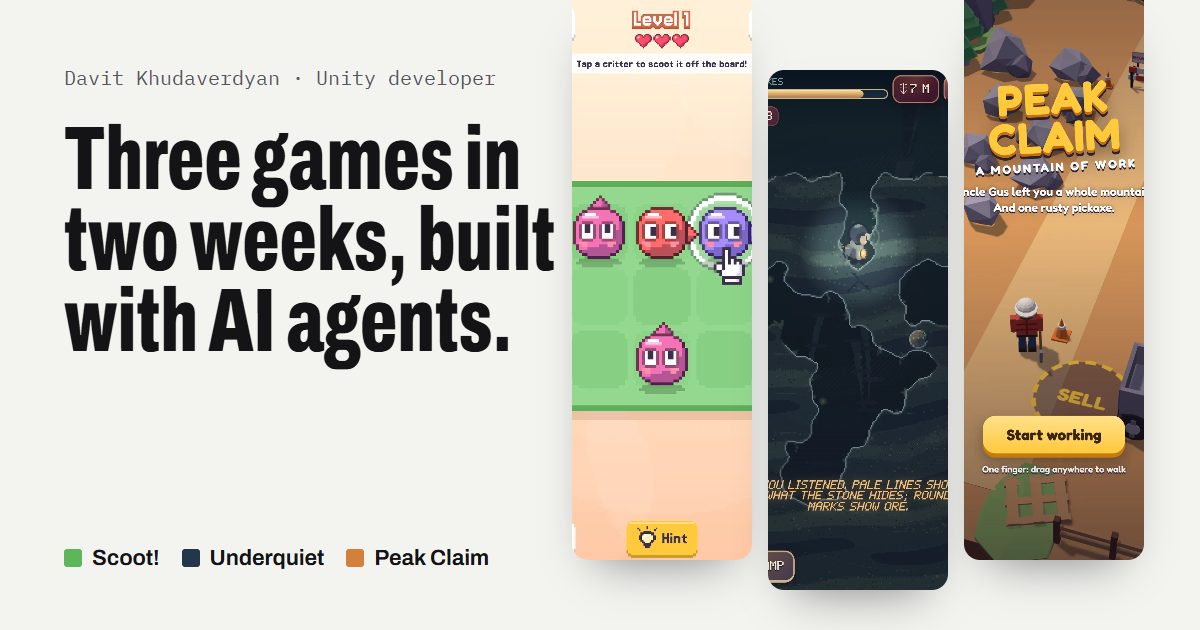
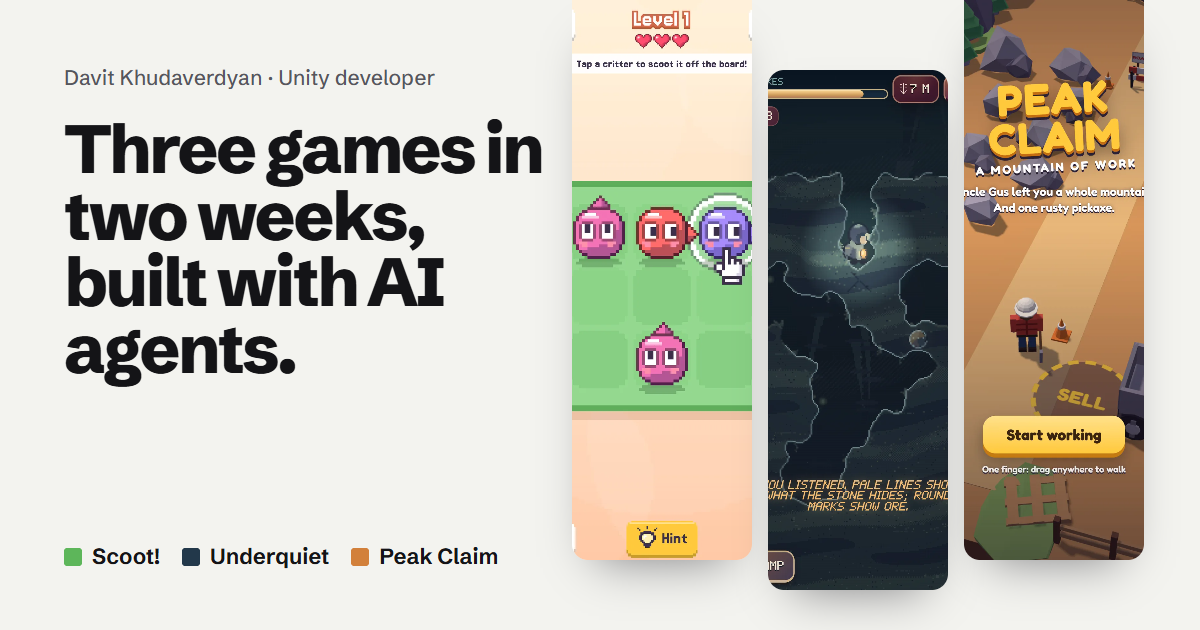
Switch to Schibsted Grotesk and drop the mono labels
Condensed all-caps headings and monospace labels read as templated.
Use one grotesk in sentence case instead, and re-render the share image.

Changed region(s): [[0.0308, 0.181, 0.4625, 0.6333], [0.0617, 0.0905, 0.4008, 0.1508], [0.0617, 0.8746, 0.4317, 0.9048]]

diff --git a/css/site.css b/css/site.css
@@ -20,7 +20,7 @@ body {
   margin: 0;
   background: var(--paper);
   color: var(--ink);
-  font-family: "Archivo", system-ui, -apple-system, "Segoe UI", sans-serif;
+  font-family: "Schibsted Grotesk", system-ui, -apple-system, "Segoe UI", sans-serif;
   font-size: 17px;
   line-height: 1.55;
   -webkit-font-smoothing: antialiased;
@@ -30,13 +30,13 @@ a { color: inherit; }
 a:focus-visible { outline: 3px solid currentColor; outline-offset: 4px; border-radius: 2px; }
 
 .wrap { max-width: 1240px; margin: 0 auto; padding: 0 clamp(16px, 4vw, 48px); }
-.mono { font-family: "IBM Plex Mono", ui-monospace, "Cascadia Mono", monospace; font-size: 13px; letter-spacing: 0.01em; }
+.small { font-size: 14px; font-weight: 500; line-height: 1.4; }
 .sr { position: absolute; width: 1px; height: 1px; overflow: hidden; clip: rect(0 0 0 0); white-space: nowrap; }
 
 /* Top bar */
 .top { display: flex; flex-wrap: wrap; justify-content: space-between; align-items: baseline; gap: 8px 24px; padding-top: 28px; padding-bottom: 28px; }
-.top .name { font-weight: 650; font-size: 17px; text-decoration: none; }
-.top nav { display: flex; gap: 24px; font-size: 15px; }
+.top .name { font-weight: 700; font-size: 17px; letter-spacing: -0.01em; text-decoration: none; }
+.top nav { display: flex; gap: 24px; font-size: 15px; font-weight: 500; }
 .top nav a { text-decoration: none; }
 .top a:hover { text-decoration: underline; text-underline-offset: 4px; }
 
@@ -44,26 +44,26 @@ a:focus-visible { outline: 3px solid currentColor; outline-offset: 4px; border-r
 .intro { padding-top: clamp(32px, 7vw, 96px); padding-bottom: clamp(56px, 7vw, 104px); }
 .role { color: var(--muted); margin: 0 0 22px; }
 .intro-grid { display: grid; grid-template-columns: repeat(12, minmax(0, 1fr)); column-gap: 24px; row-gap: 28px; align-items: end; }
-h1 { grid-column: 1 / span 8; margin: 0; font-stretch: 62%; font-weight: 800; font-size: clamp(54px, 8.8vw, 132px); line-height: 0.9; letter-spacing: -0.005em; max-width: 11.5ch; }
+h1 { grid-column: 1 / span 8; margin: 0; font-weight: 800; font-size: clamp(44px, 6.6vw, 98px); line-height: 0.98; letter-spacing: -0.04em; max-width: 12.5ch; }
 .lede { grid-column: 9 / span 4; margin: 0; font-size: clamp(18px, 1.5vw, 20px); line-height: 1.5; color: var(--muted); }
 
 /* Timesheet */
 .log { margin: clamp(56px, 7vw, 104px) 0 0; padding-top: 18px; border-top: 1.5px solid var(--ink); }
 .log-head { display: flex; flex-wrap: wrap; justify-content: space-between; align-items: baseline; gap: 6px 16px; margin-bottom: 20px; }
-.log-head h2 { margin: 0; font-size: 16px; font-weight: 650; }
+.log-head h2 { margin: 0; font-size: 17px; font-weight: 700; letter-spacing: -0.01em; }
 .log-head p { margin: 0; color: var(--muted); }
 .log-grid { display: grid; grid-template-columns: minmax(96px, 150px) repeat(15, minmax(0, 1fr)) minmax(170px, 260px); column-gap: 6px; row-gap: 10px; align-items: center; }
-.d { text-align: center; color: var(--muted); font-size: 12px; line-height: 1.25; }
-.d b { display: block; font-weight: 500; color: var(--ink); }
+.d { text-align: center; color: var(--muted); font-size: 12px; line-height: 1.25; font-variant-numeric: tabular-nums; }
+.d b { display: block; font-weight: 600; color: var(--ink); }
 .c { aspect-ratio: 1; border-radius: 3px; box-shadow: inset 0 0 0 1px var(--line); }
 .c.on { box-shadow: none; background: var(--cell); }
 .r-scoot { --cell: #5db65a; }
 .r-uq { --cell: #22384a; }
 .r-peak { --cell: #d2803a; }
-.row-name { font-weight: 650; font-size: 16px; text-decoration: none; }
+.row-name { font-weight: 700; font-size: 16px; letter-spacing: -0.01em; text-decoration: none; }
 .row-name:hover { text-decoration: underline; text-underline-offset: 4px; }
 .tot { padding-left: 18px; color: var(--muted); font-size: 15px; line-height: 1.3; }
-.tot b { font-stretch: 70%; font-weight: 800; font-size: 22px; color: var(--ink); margin-right: 6px; }
+.tot b { font-weight: 800; font-size: 20px; letter-spacing: -0.03em; color: var(--ink); margin-right: 6px; }
 .th-tot { padding-left: 18px; color: var(--muted); }
 
 /* Games */
@@ -76,11 +76,11 @@ h1 { grid-column: 1 / span 8; margin: 0; font-stretch: 62%; font-weight: 800; fo
 .game-media { grid-column: 7 / span 6; }
 .game--flip .game-text { grid-column: 8 / span 5; order: 2; }
 .game--flip .game-media { grid-column: 1 / span 6; order: 1; }
-.game-meta { display: flex; gap: 14px; margin: 0; color: var(--sub); }
-.game-title { margin: 14px 0 24px; font-stretch: 62%; font-weight: 850; font-size: clamp(60px, 7vw, 104px); line-height: 0.86; letter-spacing: -0.005em; text-transform: uppercase; }
+.game-meta { display: flex; gap: 14px; margin: 0; color: var(--sub); font-variant-numeric: tabular-nums; }
+.game-title { margin: 12px 0 22px; font-weight: 800; font-size: clamp(48px, 5.8vw, 86px); line-height: 0.95; letter-spacing: -0.045em; }
 .pitch { margin: 0; max-width: 34ch; font-size: clamp(18px, 1.5vw, 20px); line-height: 1.5; }
 .actions { display: flex; flex-wrap: wrap; align-items: center; gap: 12px 18px; margin-top: 32px; }
-.play { display: inline-flex; align-items: center; gap: 12px; min-height: 52px; padding: 0 24px 0 20px; border-radius: 6px; background: var(--ink); color: var(--paper); font-weight: 650; font-size: 17px; text-decoration: none; transition: transform 0.15s ease, background-color 0.15s ease; }
+.play { display: inline-flex; align-items: center; gap: 12px; min-height: 52px; padding: 0 24px 0 20px; border-radius: 6px; background: var(--ink); color: var(--paper); font-weight: 700; font-size: 17px; text-decoration: none; transition: transform 0.15s ease, background-color 0.15s ease; }
 .play svg { width: 14px; height: 14px; flex: none; }
 .play:hover { background: #000; transform: translateY(-1px); }
 .play:active { transform: translateY(0); }
@@ -90,9 +90,9 @@ h1 { grid-column: 1 / span 8; margin: 0; font-stretch: 62%; font-weight: 800; fo
 .hint { color: var(--sub); }
 .spec { margin: 40px 0 0; border-top: 1px solid var(--rule); }
 .spec div { display: grid; grid-template-columns: 92px minmax(0, 1fr); gap: 16px; padding: 14px 0; border-bottom: 1px solid var(--rule); }
-.spec dt { padding-top: 3px; color: var(--sub); text-transform: uppercase; }
+.spec dt { padding-top: 2px; color: var(--sub); }
 .spec dd { margin: 0; font-size: 15.5px; line-height: 1.5; }
-.spec .big { display: block; margin-bottom: 6px; font-stretch: 68%; font-weight: 800; font-size: 40px; line-height: 1; }
+.spec .big { display: block; margin-bottom: 6px; font-weight: 800; font-size: 34px; line-height: 1; letter-spacing: -0.035em; }
 
 .shot { width: 100%; border-radius: 18px; box-shadow: 0 30px 60px -30px rgba(10, 10, 20, 0.45), 0 2px 6px rgba(10, 10, 20, 0.08); }
 .game--uq .shot { box-shadow: 0 30px 60px -30px rgba(0, 0, 0, 0.75), 0 0 0 1px rgba(255, 255, 255, 0.07); }
@@ -104,15 +104,15 @@ h1 { grid-column: 1 / span 8; margin: 0; font-stretch: 62%; font-weight: 800; fo
 /* About */
 .about { padding-top: clamp(72px, 9vw, 136px); padding-bottom: clamp(72px, 9vw, 136px); }
 .about-grid { display: grid; grid-template-columns: repeat(12, minmax(0, 1fr)); column-gap: 24px; row-gap: 28px; }
-.about h2 { grid-column: 1 / span 4; margin: 0; font-stretch: 62%; font-weight: 800; font-size: clamp(42px, 5vw, 72px); line-height: 0.92; text-transform: uppercase; }
+.about h2 { grid-column: 1 / span 4; margin: 0; font-weight: 800; font-size: clamp(36px, 4vw, 56px); line-height: 1; letter-spacing: -0.04em; }
 .about-body { grid-column: 6 / span 7; font-size: clamp(18px, 1.45vw, 20px); line-height: 1.55; }
 .about-body p { margin: 0 0 18px; max-width: 52ch; }
 .about-body a { text-underline-offset: 4px; }
 
 /* Footer */
 .foot { display: flex; flex-wrap: wrap; justify-content: space-between; align-items: end; gap: 28px; padding-top: 28px; padding-bottom: 48px; border-top: 1.5px solid var(--ink); }
-.contact { display: flex; flex-wrap: wrap; gap: 6px 36px; }
-.contact a { font-stretch: 62%; font-weight: 800; font-size: clamp(40px, 5.4vw, 72px); line-height: 1; text-transform: uppercase; text-decoration: none; }
+.contact { display: flex; flex-wrap: wrap; gap: 6px 40px; }
+.contact a { font-weight: 800; font-size: clamp(36px, 4.6vw, 64px); line-height: 1.05; letter-spacing: -0.045em; text-decoration: none; }
 .contact a:hover { text-decoration: underline; text-decoration-thickness: 3px; text-underline-offset: 6px; }
 .foot-note { margin: 0; color: var(--muted); max-width: 40ch; }
 
@@ -124,14 +124,14 @@ h1 { grid-column: 1 / span 8; margin: 0; font-stretch: 62%; font-weight: 800; fo
 }
 
 @media (max-width: 720px) {
-  .log-grid { grid-template-columns: 64px repeat(15, minmax(0, 1fr)); column-gap: 3px; row-gap: 8px; }
+  .log-grid { grid-template-columns: 70px repeat(15, minmax(0, 1fr)); column-gap: 3px; row-gap: 8px; }
   .th-tot { display: none; }
   .tot { grid-column: 2 / -1; padding: 0 0 8px; margin-top: -2px; font-size: 13px; }
-  .tot b { font-size: 17px; }
+  .tot b { font-size: 16px; }
   .d { font-size: 10px; }
-  .row-name { font-size: 13px; font-stretch: 75%; line-height: 1.15; }
+  .row-name { font-size: 12px; line-height: 1.15; letter-spacing: -0.02em; }
   .spec div { grid-template-columns: 1fr; gap: 4px; }
-  .spec .big { font-size: 34px; }
+  .spec .big { font-size: 30px; }
 }
 
 @media (prefers-reduced-motion: reduce) {

diff --git a/index.html b/index.html
@@ -18,7 +18,7 @@
 <link rel="icon" href="img/favicon.svg" type="image/svg+xml">
 <link rel="preconnect" href="https://fonts.googleapis.com">
 <link rel="preconnect" href="https://fonts.gstatic.com" crossorigin>
-<link rel="stylesheet" href="https://fonts.googleapis.com/css2?family=Archivo:wdth,wght@62..125,400..900&amp;family=IBM+Plex+Mono:wght@400;500&amp;display=swap">
+<link rel="stylesheet" href="https://fonts.googleapis.com/css2?family=Schibsted+Grotesk:wght@400..900&amp;display=swap">
 <link rel="stylesheet" href="css/site.css">
 </head>
 <body>
@@ -34,7 +34,7 @@
 
 <main>
 <section class="wrap intro">
-<p class="role mono">AI-native Unity developer · Yerevan, Armenia · open to remote</p>
+<p class="role small">AI-native Unity developer · Yerevan, Armenia · open to remote</p>
 <div class="intro-grid">
 <h1>Three games in two weeks, built with AI agents.</h1>
 <p class="lede">I've shipped mobile games in Unity for five years, and for the last one I've written most of my code through AI agents. These three were made that way. Each one runs right here in your browser.</p>
@@ -43,12 +43,12 @@
 <figure class="log" id="games" aria-labelledby="log-title">
 <div class="log-head">
 <h2 id="log-title">November 2026</h2>
-<p class="mono">Days with commits, from each game's git history</p>
+<p class="small">Days with commits, from each game's git history</p>
 </div>
 <div class="log-grid">
 <span></span>
 <span class="d" aria-hidden="true">S<b>7</b></span><span class="d" aria-hidden="true">S<b>8</b></span><span class="d" aria-hidden="true">M<b>9</b></span><span class="d" aria-hidden="true">T<b>10</b></span><span class="d" aria-hidden="true">W<b>11</b></span><span class="d" aria-hidden="true">T<b>12</b></span><span class="d" aria-hidden="true">F<b>13</b></span><span class="d" aria-hidden="true">S<b>14</b></span><span class="d" aria-hidden="true">S<b>15</b></span><span class="d" aria-hidden="true">M<b>16</b></span><span class="d" aria-hidden="true">T<b>17</b></span><span class="d" aria-hidden="true">W<b>18</b></span><span class="d" aria-hidden="true">T<b>19</b></span><span class="d" aria-hidden="true">F<b>20</b></span><span class="d" aria-hidden="true">S<b>21</b></span>
-<span class="th-tot mono">Time taken</span>
+<span class="th-tot small">Time taken</span>
 
 <a class="row-name r-scoot" href="#scoot">Scoot!<span class="sr">: commits on 7, 8, 11, 14, 15 and 16 November</span></a>
 <span class="c on r-scoot"></span><span class="c on r-scoot"></span><span class="c"></span><span class="c"></span><span class="c on r-scoot"></span><span class="c"></span><span class="c"></span><span class="c on r-scoot"></span><span class="c on r-scoot"></span><span class="c on r-scoot"></span><span class="c"></span><span class="c"></span><span class="c"></span><span class="c"></span><span class="c"></span>
@@ -68,17 +68,17 @@
 <section class="game game--scoot" id="scoot" aria-labelledby="scoot-title">
 <div class="wrap game-grid">
 <div class="game-text">
-<p class="game-meta mono"><span>01</span><span>7–16 Nov 2026</span></p>
+<p class="game-meta small"><span>01</span><span>7–16 Nov 2026</span></p>
 <h2 class="game-title" id="scoot-title">Scoot!</h2>
 <p class="pitch">Tap a critter and it scoots off the board the way it faces. Bump into another and you lose a heart. Sleepy critters, leaf piles and a daily puzzle join as you go.</p>
 <div class="actions">
 <a class="play" href="games/scoot/"><svg viewBox="0 0 14 14" aria-hidden="true"><path d="M2 1.5v11l10-5.5z" fill="currentColor"/></svg>Play Scoot!</a>
-<span class="hint mono">Phone or desktop</span>
+<span class="hint small">Phone or desktop</span>
 </div>
 <dl class="spec">
-<div><dt class="mono">Time</dt><dd><span class="big">1 hour</span>to the first playable, then 6 days of polish to a Poki-ready build</dd></div>
-<div><dt class="mono">Tech</dt><dd>PixiJS v8, TypeScript and Vite. A seeded level generator with a solver, so every level can be cleared.</dd></div>
-<div><dt class="mono">AI</dt><dd>Claude Code wrote the game, the solver and its tests, scripted the pixel art and wired the Poki SDK. The music loop is AI-generated (MiniMax-Music3).</dd></div>
+<div><dt class="small">Time</dt><dd><span class="big">1 hour</span>to the first playable, then 6 days of polish to a Poki-ready build</dd></div>
+<div><dt class="small">Tech</dt><dd>PixiJS v8, TypeScript and Vite. A seeded level generator with a solver, so every level can be cleared.</dd></div>
+<div><dt class="small">AI</dt><dd>Claude Code wrote the game, the solver and its tests, scripted the pixel art and wired the Poki SDK. The music loop is AI-generated (MiniMax-Music3).</dd></div>
 </dl>
 </div>
 <div class="game-media">
@@ -93,17 +93,17 @@
 <section class="game game--uq game--flip" id="underquiet" aria-labelledby="uq-title">
 <div class="wrap game-grid">
 <div class="game-text">
-<p class="game-meta mono"><span>02</span><span>17–19 Nov 2026</span></p>
+<p class="game-meta small"><span>02</span><span>17–19 Nov 2026</span></p>
 <h2 class="game-title" id="uq-title">Underquiet</h2>
 <p class="pitch">A calm mining game about listening. Dig down with one thumb, then lift it: the rock answers, and pale contour lines show the ore hidden in the dark.</p>
 <div class="actions">
 <a class="play" href="games/underquiet/"><svg viewBox="0 0 14 14" aria-hidden="true"><path d="M2 1.5v11l10-5.5z" fill="currentColor"/></svg>Play Underquiet</a>
-<span class="hint mono">Made for phones · headphones on</span>
+<span class="hint small">Made for phones · headphones on</span>
 </div>
 <dl class="spec">
-<div><dt class="mono">Time</dt><dd><span class="big">2 days</span>research, a design doc, four concepts and the prototype</dd></div>
-<div><dt class="mono">Tech</dt><dd>Plain JavaScript and Canvas 2D in a single HTML file. Every pixel of art and every sound is made in code.</dd></div>
-<div><dt class="mono">AI</dt><dd>Claude Code and Codex CLI worked in parallel from shared briefs. Codex drafted, Claude Code checked each result and built the playable slice.</dd></div>
+<div><dt class="small">Time</dt><dd><span class="big">2 days</span>research, a design doc, four concepts and the prototype</dd></div>
+<div><dt class="small">Tech</dt><dd>Plain JavaScript and Canvas 2D in a single HTML file. Every pixel of art and every sound is made in code.</dd></div>
+<div><dt class="small">AI</dt><dd>Claude Code and Codex CLI worked in parallel from shared briefs. Codex drafted, Claude Code checked each result and built the playable slice.</dd></div>
 </dl>
 </div>
 <div class="game-media">
@@ -118,17 +118,17 @@
 <section class="game game--peak" id="peak-claim" aria-labelledby="peak-title">
 <div class="wrap game-grid">
 <div class="game-text">
-<p class="game-meta mono"><span>03</span><span>20 Nov 2026 · game jam</span></p>
+<p class="game-meta small"><span>03</span><span>20 Nov 2026 · game jam</span></p>
 <h2 class="game-title" id="peak-title">Peak Claim</h2>
 <p class="pitch">Your uncle left you a mountain and one rusty pickaxe. Mine it, haul the rocks to the truck, hire a crew, drive the machines and build Peak Lodge.</p>
 <div class="actions">
 <a class="play" href="games/peak-claim/"><svg viewBox="0 0 14 14" aria-hidden="true"><path d="M2 1.5v11l10-5.5z" fill="currentColor"/></svg>Play Peak Claim</a>
-<span class="hint mono">One finger, or WASD</span>
+<span class="hint small">One finger, or WASD</span>
 </div>
 <dl class="spec">
-<div><dt class="mono">Time</dt><dd><span class="big">2 hours</span>from an empty repo to the full loop, at a game jam</dd></div>
-<div><dt class="mono">Tech</dt><dd>three.js and Vite. Every low-poly model is built from primitives in code; the sound is synthesized.</dd></div>
-<div><dt class="mono">AI</dt><dd>Built with Claude Code in one jam session: the economy and day cycle, crew and driver AI, drivable machines and the models.</dd></div>
+<div><dt class="small">Time</dt><dd><span class="big">2 hours</span>from an empty repo to the full loop, at a game jam</dd></div>
+<div><dt class="small">Tech</dt><dd>three.js and Vite. Every low-poly model is built from primitives in code; the sound is synthesized.</dd></div>
+<div><dt class="small">AI</dt><dd>Built with Claude Code in one jam session: the economy and day cycle, crew and driver AI, drivable machines and the models.</dd></div>
 </dl>
 </div>
 <div class="game-media">
@@ -158,7 +158,7 @@
 <a href="https://www.linkedin.com/in/khudaverdyan-davit/">LinkedIn</a>
 <a href="https://github.com/eternal-crave">GitHub</a>
 </div>
-<p class="foot-note mono">The games' source code is private. I'm happy to walk you through it on a call.</p>
+<p class="foot-note small">The games' source code is private. I'm happy to walk you through it on a call.</p>
 </div>
 </footer>
 
